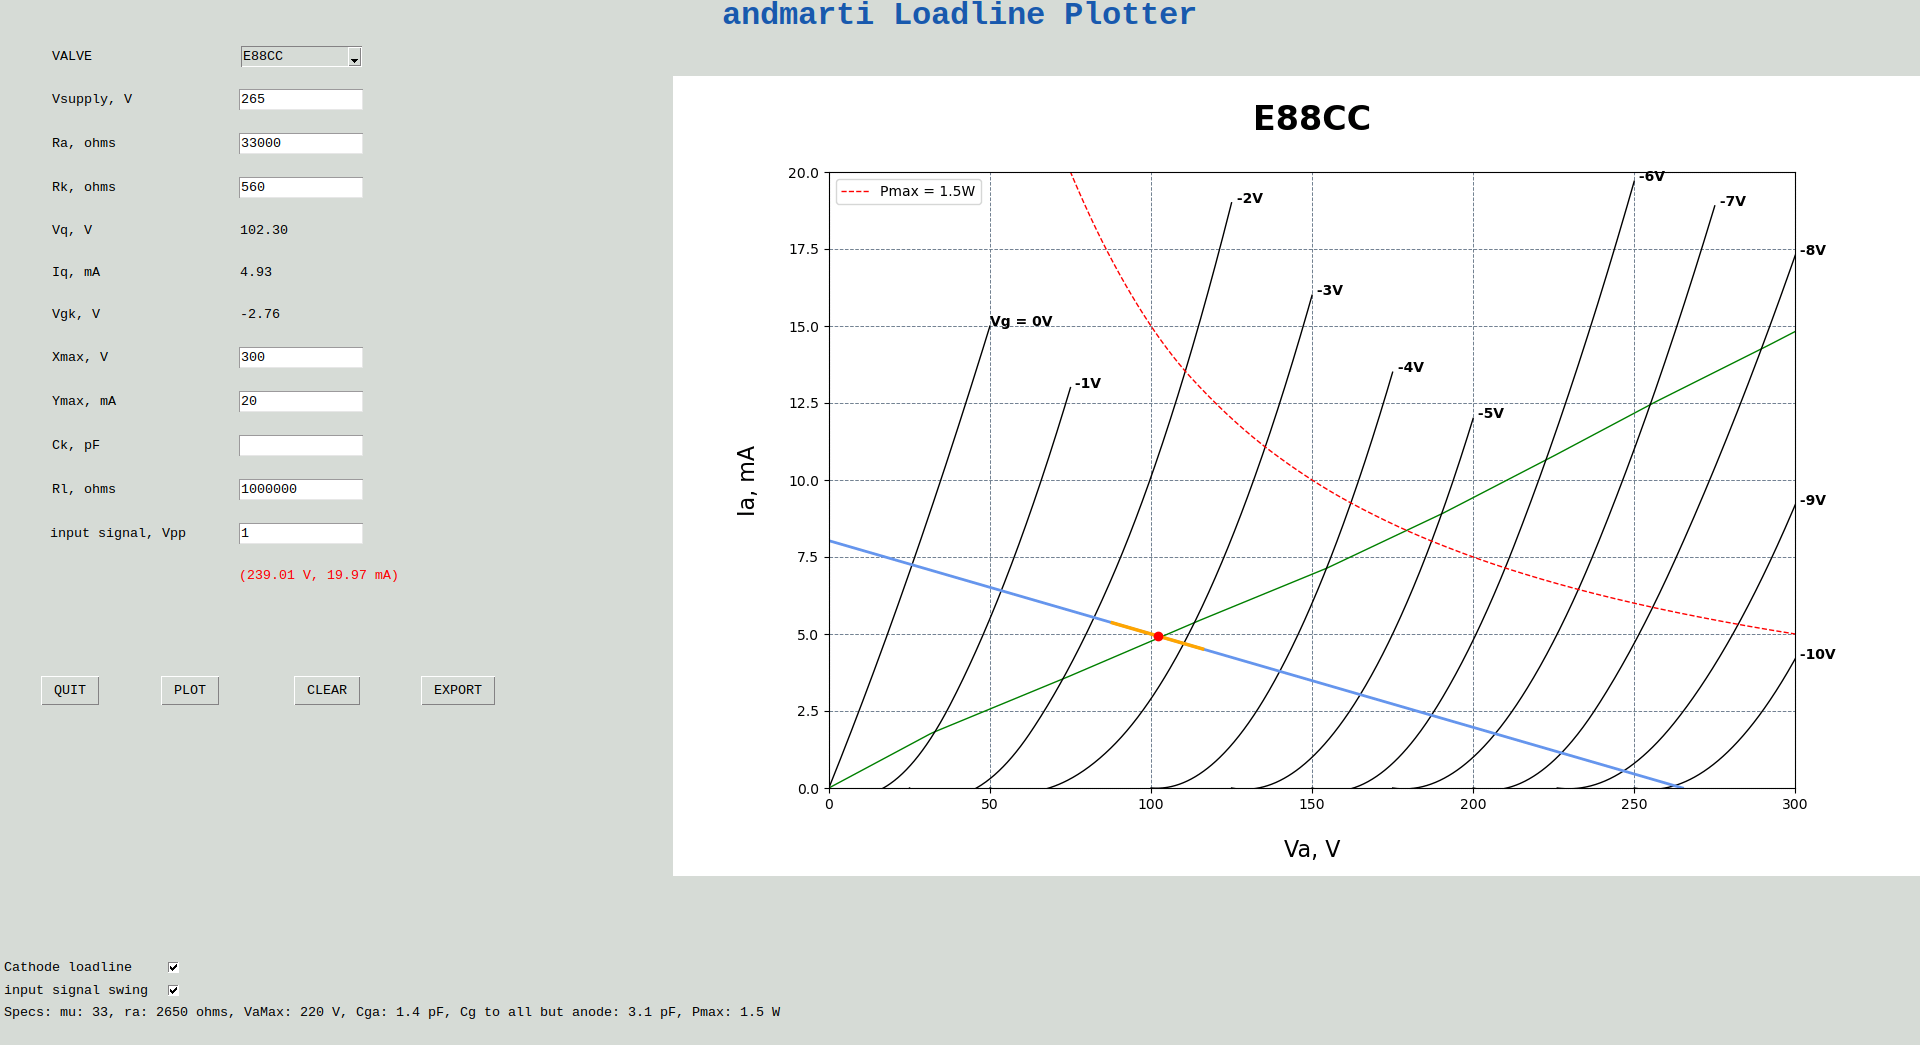
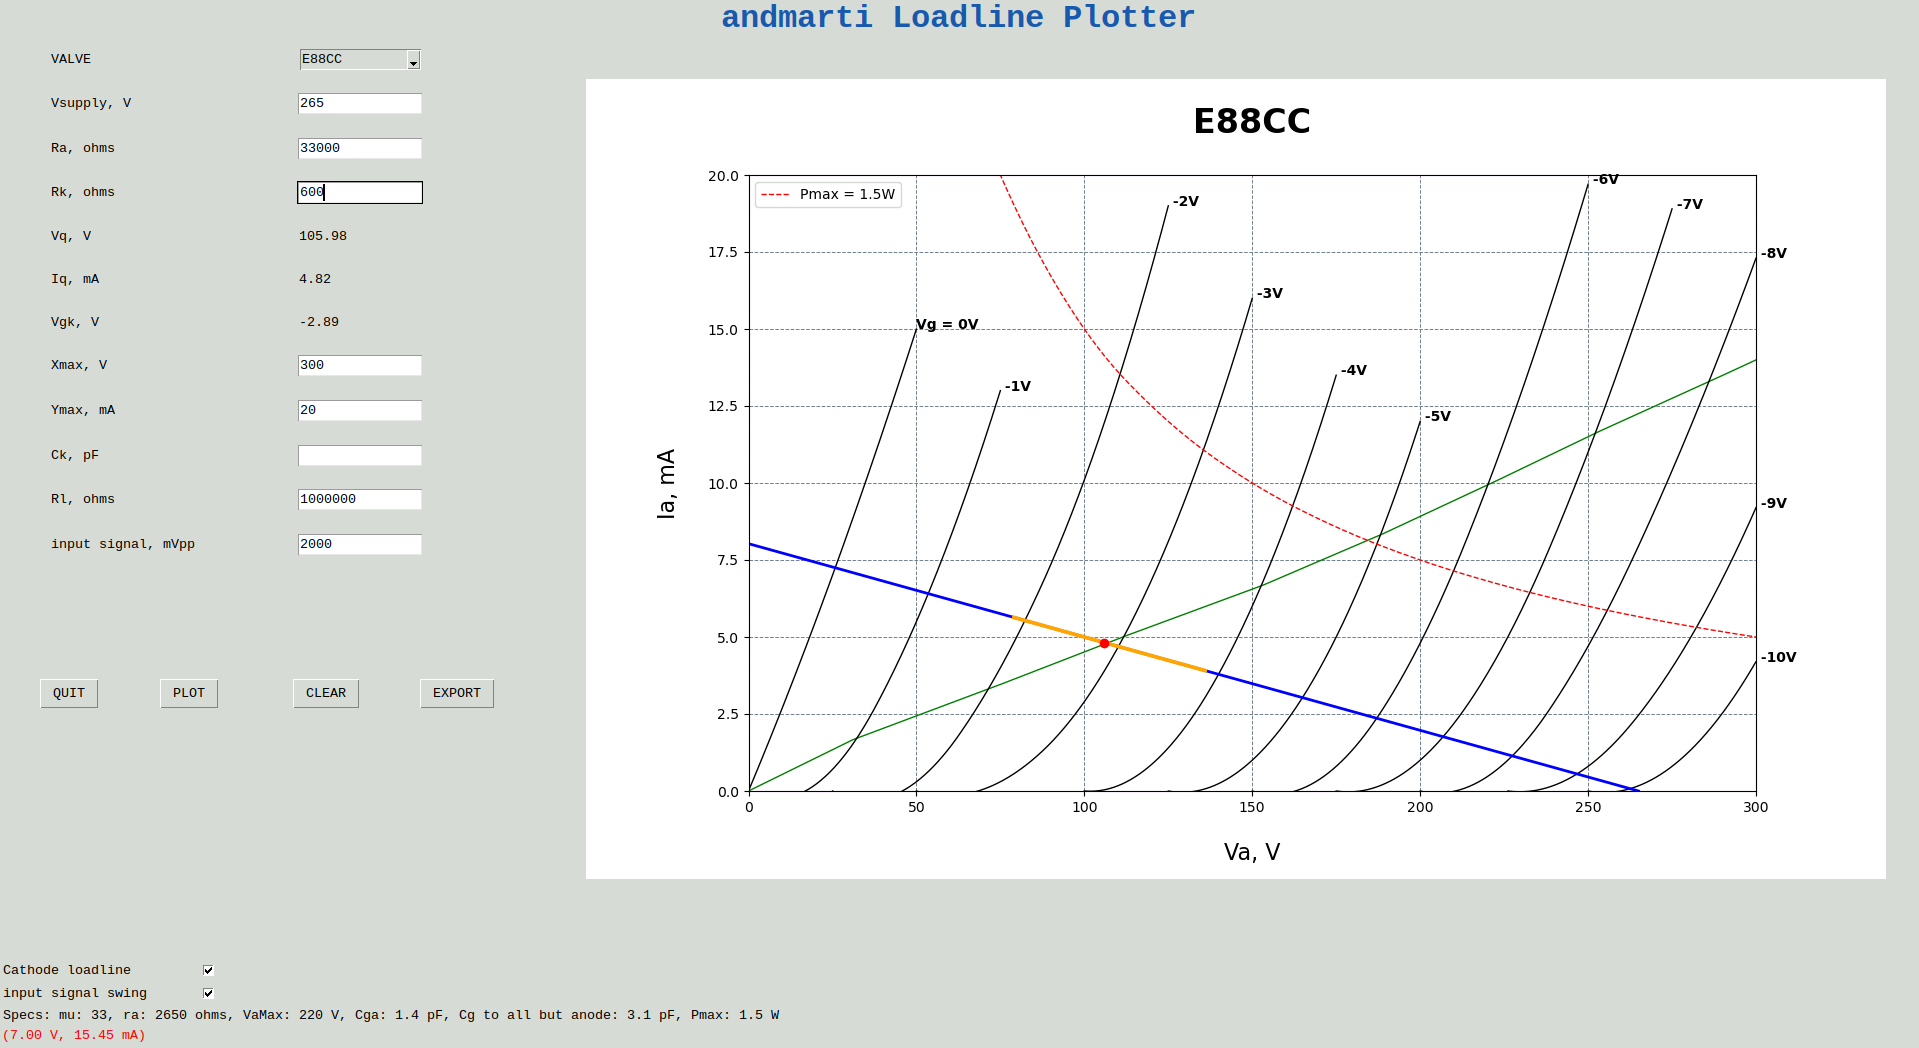
Update screenshot

diff --git a/plotter.py b/plotter.py
@@ -6,6 +6,7 @@ gain and impedance
 add schematic picture
 freq. response calculations
 refresh lines without refreshing whole plot
+get better data for ECC85
 """
 import pandas as pd
 import numpy as np
@@ -17,12 +18,12 @@ from tkinter import ttk
 from matplotlib.figure import Figure
 from matplotlib.backends.backend_tkagg import FigureCanvasTkAgg
 
+DEBUG = 0
 DEFAULT_VALVE = 'E88CC'
 DEFAULT_VSUPPLY = 265
 DEFAULT_Ra = 33000
 DEFAULT_Rk = 560
-DEBUG = 1
-DEFAULT_INPUTSIGNAL = 1
+DEFAULT_INPUTSIGNAL = 2000
 DEFAULT_XMAX = 300
 DEFAULT_YMAX = 10
 DEFAULT_RL = 1000000
@@ -119,18 +120,13 @@ class mclass:
         self.etr_rl = Entry(window, textvariable=self.str_rl, font=('Courier New', 10), width=15)
         self.etr_rl.grid(row=11, column=1, rowspan=1, sticky=W, padx=2, pady=5)
 
-        self.lbl_inputsignal = Label(window, text="input signal, Vpp", font=('Courier New', 10), background=self.window['bg'], width=23)
+        self.lbl_inputsignal = Label(window, text="input signal, mVpp", font=('Courier New', 10), background=self.window['bg'], width=18)
         self.lbl_inputsignal.grid(row=12, column=0, rowspan=1, sticky=W, padx=50, pady=5)
         self.str_inputsignal = StringVar()
         self.str_inputsignal.set(DEFAULT_INPUTSIGNAL)
         self.etr_inputsignal = Entry(window, textvariable=self.str_inputsignal, font=('Courier New', 10), width=15)
         self.etr_inputsignal.grid(row=12, column=1, rowspan=1, sticky=W, padx=2, pady=5)
 
-        # coordinates
-        self.txt_coordinates = Text(bd=0, bg=window['bg'], fg='red', height=1, wrap="none", state="normal", font=('Courier New', 10), background=self.window['bg'])
-        self.txt_coordinates.grid(row=13, column=1, columnspan=2, rowspan=1, sticky=W, padx=2, pady=5)
-        self.txt_coordinates.config(highlightthickness = 0, borderwidth=0)
-        self.txt_coordinates.config(state=DISABLED)
 
         # title
         self.title = Label(window, text='andmarti Loadline Plotter', fg='#1C5AAC', font=('Courier New', 24, 'bold'))
@@ -171,7 +167,18 @@ class mclass:
         self.lbl_specs = Label(fm, textvariable=self.str_specs, font=('Courier New', 10), background=self.window['bg'])
         self.lbl_specs.grid(row = 2, column = 0, columnspan=62, sticky='W')
 
-        #r = self.window.grid_size()[0]
+        # coordinates
+        #self.txt_coordinates = Text(bd=0, bg=window['bg'], fg='red', height=1, wrap="none", state="normal", font=('Courier New', 10), background=self.window['bg'])
+        #self.txt_coordinates.grid(row=13, column=1, columnspan=2, rowspan=1, sticky=W, padx=2, pady=5)
+        #self.txt_coordinates.config(highlightthickness = 0, borderwidth=0)
+        #self.txt_coordinates.config(state=DISABLED)
+
+        self.txt_coordinates = Text(fm, bd=0, bg=window['bg'], fg='red', height=1, wrap="none", state="normal", font=('Courier New', 10), background=self.window['bg'])
+        #self.txt_coordinates.grid(row=13, column=1, columnspan=2, rowspan=1, sticky=W, padx=2, pady=5)
+        self.txt_coordinates.grid(row = 3, column = 0, columnspan=10, sticky='W')
+        self.txt_coordinates.config(highlightthickness = 0, borderwidth=0)
+        self.txt_coordinates.config(state=DISABLED)
+
         fm.grid(row=45, column=0, padx=2, pady=40, columnspan=10, sticky='W')
 
         #BUTTONS
@@ -429,7 +436,7 @@ class mclass:
         # plot loadline
         x_values = [float(self.str_supply.get()), 0]
         y_values = [0, float(self.str_supply.get()) * 1000 / float(self.str_Ra.get())]
-        self.ax.plot(x_values, y_values, '-', color='cornflowerblue', linewidth=2)
+        self.ax.plot(x_values, y_values, '-', color='blue', linewidth=2)
 
         # plot input signal suing
         if self.swingl != NONE and self.chk_input_signal_swing_var.get() == 1:
@@ -438,7 +445,7 @@ class mclass:
             Ra = float(self.str_Ra.get())
             b = Vs * 1000 / Ra
             a = -b / Vs
-            self.ax.plot([ (self.swingl[1] - b)/a, (self.swingr[1] - b)/a ], [ self.swingl[1], self.swingr[1] ], '-', color='orange', linewidth=2.5)
+            self.ax.plot([ (self.swingl[1] - b)/a, (self.swingr[1] - b)/a ], [ self.swingl[1], self.swingr[1] ], '-', color='orange', linewidth=2.7)
 
         # plot quiscient at the end
         self.ax.plot(self.vq, self.iq, 'ro', markersize=6)
@@ -446,66 +453,70 @@ class mclass:
         self.ax.legend(loc='upper left')
         self.canvas.draw()
 
+    # TODO
+    # this does not that well with ECC85 cause the interpolation does not like the data I entered
+    # get better data for ECC85
     def input_swing(self):
+        self.swingl = NONE
+        self.swingr = NONE
         valve = self.str_valve.get()
         inputVpp = float(self.str_inputsignal.get())
         Vs = float(self.str_supply.get())
         Ra = float(self.str_Ra.get())
+        lft_point_y = self.vgk+inputVpp/2000
+        rht_point_y = self.vgk-inputVpp/2000
 
-        lft_point_y = self.vgk+inputVpp/2
-        rht_point_y = self.vgk-inputVpp/2
-        if lft_point_y > 0:
-            self.swingl = NONE
-            self.swingr = NONE
-            return
+        if lft_point_y > 0: return
 
         da = self.df.loc[(self.df['valve'] == valve) & (self.df['curve'] != ' Pmax'), ['valve','curve','x','y'] ]
         da[['curve', 'x', 'y']] = da[['curve', 'x', 'y']].apply(pd.to_numeric, errors='coerce', axis=1)
         b = Vs * 1000 / Ra
         a = -b / Vs
 
-        # punto izq
+        # left point of swing
         de = da.loc[(da['curve'] < lft_point_y), ['curve'] ]
         lft_prev_curve = de['curve'].max()
         de = da.loc[(da['curve'] > lft_point_y), ['curve'] ]
         lft_next_curve = de['curve'].min()
+
         de = da.loc[(da['valve'] == valve) & (da['curve'] == lft_prev_curve), ['x'] ]
         xmin = de['x'].min()
-        de = da.loc[(da['valve'] == valve) & (da['curve'] == lft_next_curve), ['x'] ]
-        xmax = de['x'].max()
-        if xmax >= float(self.str_Xmax.get()):
-            self.swingl = NONE
-            self.swingr = NONE
-            return
 
-        interp_A = lft_point_y
-        interp_B = np.arange(xmin, xmax, 1) #step=1
-        ynew = gd((da['curve'], da['x']), da['y'], (interp_A, interp_B), method='linear')
-        yloadline = interp_B * a + b
-        idx = np.argwhere(np.diff(np.sign(ynew - yloadline))).flatten()
-        #el punto izq es:
-        #print(lft_point_y)
-        #print(yloadline[idx][0])
-        self.swingl = [lft_point_y, yloadline[idx][0]]
-
-        # punto der
         de = da.loc[(da['curve'] < rht_point_y), ['curve'] ]
         rht_prev_curve = de['curve'].max()
         de = da.loc[(da['curve'] > rht_point_y), ['curve'] ]
         rht_next_curve = de['curve'].min()
-        de = da.loc[(da['valve'] == valve) & (da['curve'] == rht_prev_curve), ['x'] ]
-        xmin = de['x'].min()
         de = da.loc[(da['valve'] == valve) & (da['curve'] == rht_next_curve), ['x'] ]
         xmax = de['x'].max()
+
+        if xmax >= float(self.str_Xmax.get()): return
+        if DEBUG: print('swing - min: %, max: %' , xmin, xmax)
+
+        interp_A = lft_point_y
+        interp_B = np.arange(xmin, xmax, 1) #step=1
+        ynew = gd((da['curve'], da['x']), da['y'], (interp_A, interp_B), method='cubic')
+        yloadline = interp_B * a + b
+
+        idx = np.argwhere(np.diff(np.sign(yloadline - ynew))).flatten()
+
+        # left point of swing
+        if DEBUG:
+            print('left swing: Vg=%s Ia=%s Va=%s' % (lft_point_y, ynew, interp_B))
+            self.ax.plot(interp_B, ynew, '-', color='green', linewidth=1)
+        self.swingl = [lft_point_y, yloadline[idx][0]]
+
         interp_A = rht_point_y
         interp_B = np.arange(xmin, xmax, 1) #step=1
-        ynew = gd((da['curve'], da['x']), da['y'], (interp_A, interp_B), method='linear')
-        yloadline = interp_B * a + b
+        ynew = gd((da['curve'], da['x']), da['y'], (interp_A, interp_B), method='cubic')
+
         idx = np.argwhere(np.diff(np.sign(ynew - yloadline))).flatten()
-        #el punto der es:
-        #print(rht_point_y)
-        #print(yloadline[idx][0])
-        self.swingr = [rht_point_y, yloadline[idx][0]]
+
+        # right point of swing
+        if DEBUG:
+            print('right swing: Vg=%s Ia=%s Va=%s' % (rht_point_y, ynew, interp_B))
+            self.ax.plot(interp_B, ynew, '-', color='green', linewidth=1)
+        self.swingr = [rht_point_y, yloadline[idx][-1]]
+
 
     def can_convert_to_float(self, string):
         try:
